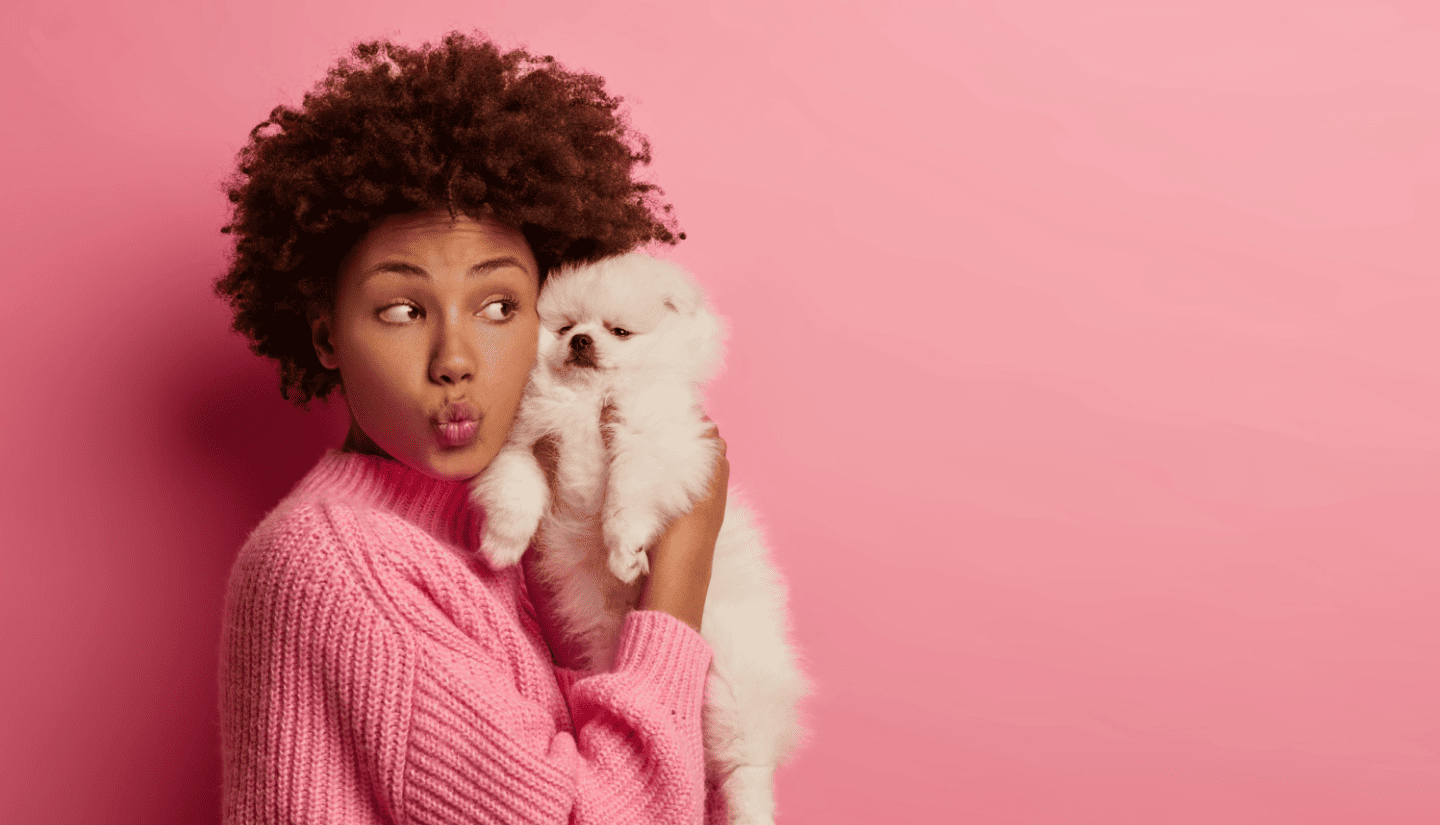
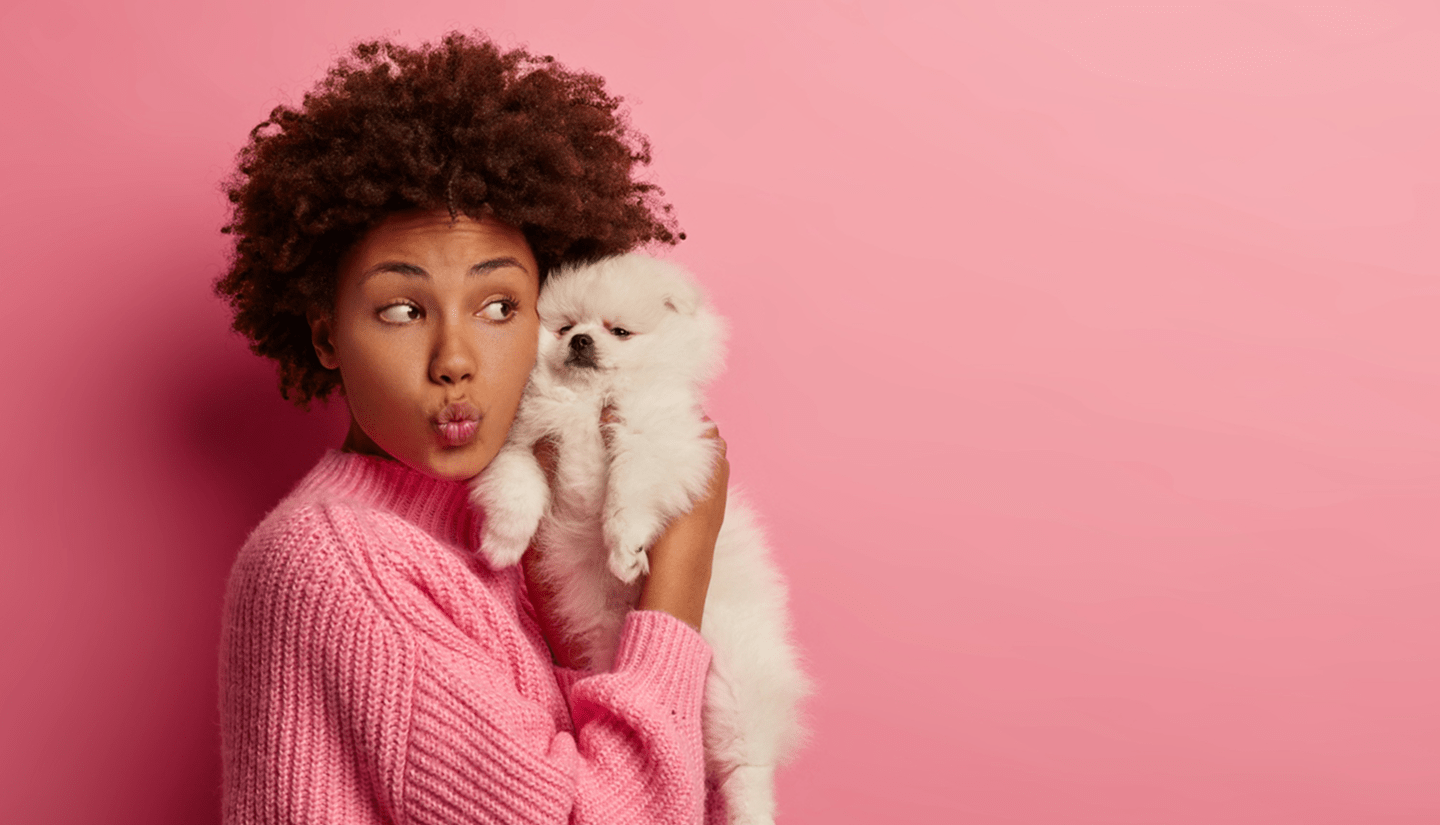
update background image for auth pages

diff --git a/src/pages/RegisterPage/RegisterPage.module.css b/src/pages/RegisterPage/RegisterPage.module.css
@@ -1,34 +1,55 @@
+.registerPageContainer {
+  margin: 16px 16px 14px 16px;
+  background-color: var(--bg-color);
+}
+
 @media screen and (min-width: 1440px) {
   .registerPageContainer {
+    background-attachment: fixed;
     background-size: cover;
-    background-position: center;
     background-repeat: no-repeat;
     height: 100vh;
+    min-height: 100%;
     padding-top: 41px;
     padding-right: 110px;
     padding-bottom: 39px;
     padding-left: 893px;
+    box-sizing: border-box;
+    overflow-y: auto;
+    scrollbar-width: none;
+    -ms-overflow-style: none;
+    margin: 0;
+  }
+
+  .registerPageContainer::-webkit-scrollbar {
+    display: none;
   }
 
   .ownerBackground {
-    background-image: -webkit-image-set(
-      url("../../assets/Images/owner-background@1x.png") 1x,
-      url("../../assets/Images/owner-background@2x.png") 2x
-    );
-    background-image: image-set(
-      url("../../assets/Images/owner-background@1x.png") 1x,
-      url("../../assets/Images/owner-background@2x.png") 2x
-    );
+    background-image: linear-gradient(
+      rgba(136, 37, 48, 0.1),
+      rgba(250, 152, 152, 0.1)
+    ),
+      url("../../assets/Images/owner-background@1x.png");
   }
 
   .doctorBackground {
-    background-image: -webkit-image-set(
-      url("../../assets/Images/doctor-background@1x.png") 1x,
-      url("../../assets/Images/doctor-background@2x.png") 2x
-    );
-    background-image: image-set(
-      url("../../assets/Images/doctor-background@1x.png") 1x,
-      url("../../assets/Images/doctor-background@2x.png") 2x
-    );
+    background-image: linear-gradient(
+        rgba(33, 78, 86, 0.1),
+        rgba(83, 171, 237, 0.1)
+      ),
+      url("../../assets/Images/doctor-background@1x.png");
+  }
+
+  @media screen and (min-resolution: 192dpi) and (min-width: 1440px),
+    screen and (min-resolution: 2dppx) and (min-width: 1440px),
+    screen and (min-device-pixel-ratio: 2) {
+    .ownerBackground {
+      background-image: url("../../assets/Images/owner-background@2x.png");
+    }
+
+    .doctorBackground {
+      background-image: url("../../assets/Images/doctor-background@2x.png");
+    }
   }
 }

diff --git a/src/pages/LoginPage/LoginPage.module.css b/src/pages/LoginPage/LoginPage.module.css
@@ -1,34 +1,55 @@
+.loginPageContainer {
+  margin: 16px 16px 14px 16px;
+  background-color: var(--bg-color);
+}
+
 @media screen and (min-width: 1440px) {
   .loginPageContainer {
+    background-attachment: fixed;
     background-size: cover;
-    background-position: center;
     background-repeat: no-repeat;
     height: 100vh;
+    min-height: 100%;
     padding-top: 85px;
     padding-right: 110px;
     padding-bottom: 83px;
     padding-left: 893px;
+    box-sizing: border-box;
+    overflow-y: auto;
+    scrollbar-width: none;
+    -ms-overflow-style: none;
+    margin: 0;
+  }
+
+  .loginPageContainer::-webkit-scrollbar {
+    display: none;
   }
 
   .ownerBackground {
-    background-image: -webkit-image-set(
-      url("../../assets/Images/owner-background@1x.png") 1x,
-      url("../../assets/Images/owner-background@2x.png") 2x
-    );
-    background-image: image-set(
-      url("../../assets/Images/owner-background@1x.png") 1x,
-      url("../../assets/Images/owner-background@2x.png") 2x
-    );
+    background-image: linear-gradient(
+        rgba(136, 37, 48, 0.1),
+        rgba(250, 152, 152, 0.1)
+      ),
+      url("../../assets/Images/owner-background@1x.png");
   }
 
   .doctorBackground {
-    background-image: -webkit-image-set(
-      url("../../assets/Images/doctor-background@1x.png") 1x,
-      url("../../assets/Images/doctor-background@2x.png") 2x
-    );
-    background-image: image-set(
-      url("../../assets/Images/doctor-background@1x.png") 1x,
-      url("../../assets/Images/doctor-background@2x.png") 2x
-    );
+    background-image: linear-gradient(
+        rgba(33, 78, 86, 0.1),
+        rgba(83, 171, 237, 0.1)
+      ),
+      url("../../assets/Images/doctor-background@1x.png");
+  }
+
+  @media screen and (min-resolution: 192dpi) and (min-width: 1440px),
+    screen and (min-resolution: 2dppx) and (min-width: 1440px),
+    screen and (min-device-pixel-ratio: 2) {
+    .ownerBackground {
+      background-image: url("../../assets/Images/owner-background@2x.png");
+    }
+
+    .doctorBackground {
+      background-image: url("../../assets/Images/doctor-background@2x.png");
+    }
   }
 }

diff --git a/src/pages/ConsultationHistory/ConsultationHistory.module.css b/src/pages/ConsultationHistory/ConsultationHistory.module.css
@@ -1,9 +1,6 @@
 @media screen and (min-width: 1440px) {
   .consultationHistoryContainer {
-    position: absolute;
-    top: 50%;
-    left: 50%;
-    transform: translate(-50%, -50%);
+    position: relative;
   }
 
   .folder {
@@ -16,6 +13,10 @@
   }
 
   .consultationHistoryBox {
+    position: fixed;
+    top:50%;
+    left: 50%;
+    transform: translate(calc(-50% + 140px), -50%);
     width: 441px;
   }
   .consultationHistoryTitle {

diff --git a/src/components/App.jsx b/src/components/App.jsx
@@ -47,7 +47,7 @@ export default function App() {
     <div className={style.appContainer}>
       <GoogleOAuthProvider>
         {/* <Toaster position="top-right" /> */}
-        <NotificationsWrapper />
+        {/* <NotificationsWrapper /> */}
         <Layout>
           <Suspense fallback={<Loader />}>
             <Routes>

diff --git a/src/components/NotificationsWrapper/NotificationsWrapper.module.css b/src/components/NotificationsWrapper/NotificationsWrapper.module.css
@@ -2,6 +2,7 @@
   width: 343px;
   padding: 0 16px 16px 16px;
   position: fixed;
+  /* position: absolute; */
   margin-top: 69.5px;
   min-height: min-content;
   max-height: calc(100vh - 69.5px);

diff --git a/src/components/Layout/Layout.module.css b/src/components/Layout/Layout.module.css
@@ -2,7 +2,7 @@
   display: flex;
   flex-direction: column;
   position: relative;
-  padding-top: 68px; 
+  padding-top: 68px;   
 }
 
  .noHeader {

diff --git a/src/pages/UserPanelPage/UserPanelPage.module.css b/src/pages/UserPanelPage/UserPanelPage.module.css
@@ -12,7 +12,6 @@
   .mainContentDesktop {
     position: relative;
     grid-column: 2;
-    overflow-y: auto;
     padding: 32px;
   }
 }

diff --git a/src/components/RegistrForm/RegistrForm.module.css b/src/components/RegistrForm/RegistrForm.module.css
@@ -1,5 +1,4 @@
 .registrFormContainer {
-  margin: 16px 16px 14px 16px;
   width: 343px;
   background-color: var(--bg-color);
 }

diff --git a/src/components/LoginForm/LoginForm.module.css b/src/components/LoginForm/LoginForm.module.css
@@ -1,5 +1,4 @@
 .loginFormContainer {
-  margin: 16px 16px 14px 16px;
   width: 343px;
   background-color: var(--bg-color);
 }
